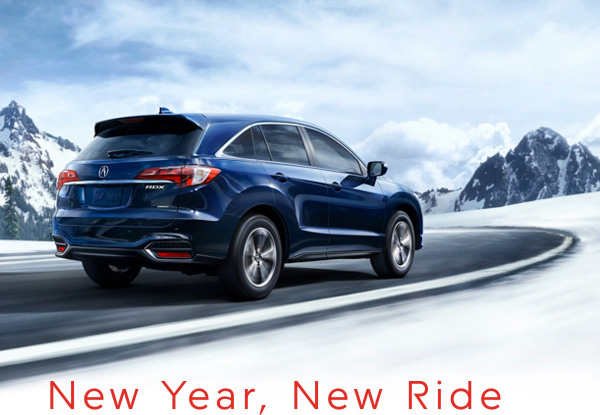
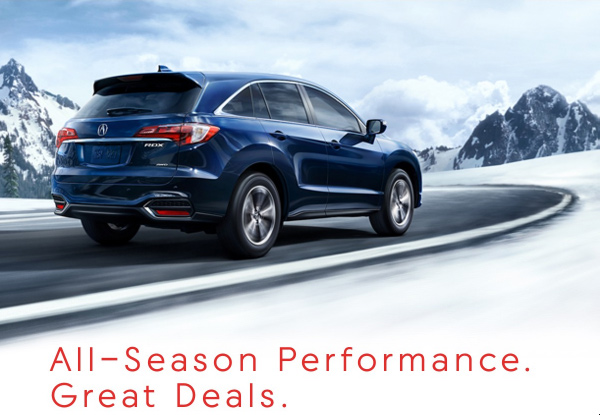
Various late commits. There are still copy changes for the latest email "RDX GOTL2 - rdx-hello-future"

diff --git a/review.web/Content/Review/rdx-presidents-day_20180208_assets.html b/review.web/Content/Review/rdx-presidents-day_20180208_assets.html
@@ -263,7 +263,7 @@
                               <tr>
                                 <td>
                                   <a style="margin:0; padding:0; border:none; outline:none; text-decoration:none;" target="_blank" href="https://www.acura.com/rdx/?SP_RID=%%RECIPIENT_ID%%&SP_MID=%%MAILING_ID%%&PROGRAMID=%%PROGID%%&CAMPAIGNCODE=%%CAMPAIGNCODE%%&OFFERCODE=%%OFFERCODE%%&CELLCODE=%%CELL%%&PID=%%PID%%&LINKNAME=%%LINK_NAME%%">
-                                    <img style="margin:0 auto;padding:0;border:none !important;outline:none !important;display:block;text-align:center; font-family:Helvetica, Arial, 'Lucida Grande', sans-serif; color:white; font-size:20px;" width="600" height="415" alt="The 2018 RDX - New Year, New Ride" src="rdx-presidents-day_20180208_assets/hero.jpg" />
+                                    <img style="margin:0 auto;padding:0;border:none !important;outline:none !important;display:block;text-align:center; font-family:Helvetica, Arial, 'Lucida Grande', sans-serif; color:white; font-size:20px;" width="600" height="415" alt="All-Season Perforance. Great Deals." src="rdx-presidents-day_20180208_assets/hero.jpg" />
                                   </a>
                                 </td>
                               </tr>
@@ -277,7 +277,7 @@
                                         <td class="content-container-cell" style="font-family:Helvetica, Arial, 'Lucida Grande', sans-serif; font-size: 16px; line-height: 32px; color: #000">
                                           <img class="spacer line-space-large" style="margin:0 auto;padding:0;border:none !important;outline:none !important;display:block;text-align:center;width:1px;" src="rdx-presidents-day_20180208_assets/spacer.png" height="15" width="1" />
 
-                                          <div class="content acura-body-copy" style="line-height:32px;font-family:'Helvetica Neue', Helvetica, Arial, 'Lucida Grande', sans-serif !important;font-size:16px;line-height:32px;text-align:left;color:#000000;" align="left">Remarkable handling and agility combined with spaciousness and comfort make the Acura RDX one amazing ride. And with equally amazing finance and lease offers currently available, now's your chance to drive one for less. But you&rsquo;d better hurry — the savings end on February 28th.</div>
+                                          <div class="content acura-body-copy" style="line-height:32px;font-family:'Helvetica Neue', Helvetica, Arial, 'Lucida Grande', sans-serif !important;font-size:16px;line-height:32px;text-align:left;color:#000000;" align="left">Remarkable handling and agility combined with spaciousness and comfort make the Acura RDX one amazing ride. And now you can get equally amazing finance and lease offers. But you&rsquo;d better hurry &mdash; the savings end on the popular RDX February 28th.</div>
                                           </td>
                                         <td style="width:50px;" width="50"><img class="spacer col-space-content-container" style="margin:0 auto;padding:0;border:none !important;outline:none !important;display:block;text-align:center;" src="rdx-presidents-day_20180208_assets/spacer.png" height="1" width="50" >
                                         </td>
@@ -748,7 +748,7 @@
                           <tbody>
                             <tr>
                               <td valign="top" align="center" style="color:#000000 !important; vertical-align:middle;padding:16px 50px;border-width:2px;border-style:solid;border-color:#e82c2a;background-color:#ffffff;font-family:Helvetica, Arial, 'Lucida Grande', sans-serif;font-size:16px;text-align:center;">
-                                <a class="acura-button-inner" href="https://www.acura.com/tools/current-luxury-car-suv-offers-leasing?vehiclemodelseries=rdx" target="_blank" style="color:#000000 !important; text-decoration:none;border:none;font-weight:bold !important;display:inline-block;font-size:20px;font-family:'HelveticaNeue-Bold', 'Helvetica Neue Bold', 'Helvetica Neue', Helvetica, Arial, 'Lucida Grande', sans-serif !important;font-size:16px;text-align:center;" align="center">&nbsp;&nbsp;VIEW ALL CURRENT RDX OFFERS&nbsp;&nbsp;</a>
+                                <a class="acura-button-inner" href="https://www.acura.com/tools/current-luxury-car-suv-offers-leasing" target="_blank" style="color:#000000 !important; text-decoration:none;border:none;font-weight:bold !important;display:inline-block;font-size:20px;font-family:'HelveticaNeue-Bold', 'Helvetica Neue Bold', 'Helvetica Neue', Helvetica, Arial, 'Lucida Grande', sans-serif !important;font-size:16px;text-align:center;" align="center">&nbsp;&nbsp;VIEW ALL CURRENT ACURA OFFERS&nbsp;&nbsp;</a>
                               </td>
                             </tr>
                           </tbody>
@@ -788,7 +788,7 @@
                                         <tbody>
                                           <tr>
                                             <td class="acura-button" style="vertical-align:middle;display:inline-block;line-height:1px;padding:0;border-width:2px;border-style:solid;border-color:#e82c2a;background-color:#ffffff;font-family:'Helvetica Neue', Helvetica, Arial, 'Lucida Grande', sans-serif;font-size:16px;text-align:center;color:#000000;" valign="middle" align="center">
-                                              <a class="acura-button-inner" href="https://www.acura.com/build-price/rdx/?SP_RID=%%RECIPIENT_ID%%&SP_MID=%%MAILING_ID%%&PROGRAMID=%%PROGID%%&CAMPAIGNCODE=%%CAMPAIGNCODE%%&OFFERCODE=%%OFFERCODE%%&CELLCODE=%%CELL%%&PID=%%PID%%&LINKNAME=%%LINK_NAME%%" target="_blank" style="text-decoration:none;line-height:16px;font-weight:bold;display:inline-block;font-family:'HelveticaNeue-Bold', 'Helvetica Neue Bold', 'Helvetica Neue', Helvetica, Arial, 'Lucida Grande', sans-serif;font-size:16px;text-align:center;color:#e82c2a;" align="center">
+                                              <a class="acura-button-inner" href="https://www.acura.com/tools/bap/baplanding.aspx?SP_RID=%%RECIPIENT_ID%%&SP_MID=%%MAILING_ID%%&PROGRAMID=%%PROGID%%&CAMPAIGNCODE=%%CAMPAIGNCODE%%&OFFERCODE=%%OFFERCODE%%&CELLCODE=%%CELL%%&PID=%%PID%%&LINKNAME=%%LINK_NAME%%" target="_blank" style="text-decoration:none;line-height:16px;font-weight:bold;display:inline-block;font-family:'HelveticaNeue-Bold', 'Helvetica Neue Bold', 'Helvetica Neue', Helvetica, Arial, 'Lucida Grande', sans-serif;font-size:16px;text-align:center;color:#e82c2a;" align="center">
                                                 <font color="#e82c2a"><img style="margin:0 auto;padding:0;border:0px none;outline:0px none;display:block;text-align:center;vertical-align:bottom;line-height:30px;width:30px;height:30px;" height="30" width="30" alt="" src="rdx-presidents-day_20180208_assets/link-arrow-2x.png"></font>
                                               </a>
                                             </td>
@@ -800,7 +800,7 @@
                                     </td>
                                     <td style="vertical-align:middle;height:34px;text-align:left;" valign="middle" align="left" height="34">
                                       <div class="acura-button-arrow-text" style="color:#e82c2a;text-align:left;font-size:15px;font-family:'Helvetica Neue', Helvetica, Arial, 'Lucida Grande', sans-serif;font-weight:bold;line-height:15px;text-decoration:none;">
-                                        <a class="acura-button-inner-red" href="https://www.acura.com/build-price/rdx?modelyear=2018&SP_RID=%%RECIPIENT_ID%%&SP_MID=%%MAILING_ID%%&PROGRAMID=%%PROGID%%&CAMPAIGNCODE=%%CAMPAIGNCODE%%&OFFERCODE=%%OFFERCODE%%&CELLCODE=%%CELL%%&PID=%%PID%%&LINKNAME=%%LINK_NAME%%" target="_blank" style="color:#e82c2a !important; text-decoration:none;border:none;font-weight:bold !important;display:inline-block;font-family:'HelveticaNeue-Bold', 'Helvetica Neue Bold', 'Helvetica Neue', Helvetica, Arial, 'Lucida Grande', sans-serif;font-size:16px;text-align:center;" align="center">BUILD &amp; PRICE YOUR RDX</a>
+                                        <a class="acura-button-inner-red" href="https://www.acura.com/tools/bap/baplanding.aspx?SP_RID=%%RECIPIENT_ID%%&SP_MID=%%MAILING_ID%%&PROGRAMID=%%PROGID%%&CAMPAIGNCODE=%%CAMPAIGNCODE%%&OFFERCODE=%%OFFERCODE%%&CELLCODE=%%CELL%%&PID=%%PID%%&LINKNAME=%%LINK_NAME%%" target="_blank" style="color:#e82c2a !important; text-decoration:none;border:none;font-weight:bold !important;display:inline-block;font-family:'HelveticaNeue-Bold', 'Helvetica Neue Bold', 'Helvetica Neue', Helvetica, Arial, 'Lucida Grande', sans-serif;font-size:16px;text-align:center;" align="center">BUILD &amp; PRICE YOUR ACURA</a>
                                       </div>
                                     </td>
                                   </tr>

diff --git a/review.web/Content/Review/rdx-hello-future_20180209_assets.html b/review.web/Content/Review/rdx-hello-future_20180209_assets.html
@@ -103,7 +103,7 @@
   </head>
 <body bgcolor="#f2f2f2" style="padding:0;margin:0;-webkit-text-size-adjust:none; background-color:#f2f2f2;">
 <div style="display:none;visibility:hidden !important;mso-hide:all;font-size:1px;color:#ffffff;line-height:1px;max-height:0px;max-width:0px;opacity:0;overflow:hidden !important;">Step into the driver’s seat of our world-class SUV </div>
-<table width="100%" cellpadding="0" cellspacing="0" border="0" align="center" style="min-width:600px !important;">
+<table width="100%" cellpadding="0" cellspacing="0" border="0" align="center" bgcolor="#f2f2f2" style="min-width:600px !important;">
   <tbody><tr><td align="center" valign="top">
     <table width="600" border="0" cellpadding="0" cellspacing="0" bgcolor="#FFFFFF">
       <!-- logo -->
@@ -128,7 +128,7 @@
                       </td>
                       <td class="content-container-cell" style="font-family:Helvetica, Arial, 'Lucida Grande', sans-serif;">
                         <img class="spacer line-space-large" style="margin:0 auto;padding:0;border:none !important;outline:none !important;display:block;text-align:center;width:1px;" src="rdx-hello-future_20180209_assets/spacer.png" height="30" width="1">
-                        <div class="content acura-body-copy" style="line-height:30px;font-family:'Helvetica Neue', Helvetica, Arial, 'Lucida Grande', sans-serif !important;font-size:16px;text-align:left;color:#000000;" align="left">When greatness is in your DNA, unleash it. That's what the Acura RDX Prototype is all about. As we&rsquo;ve previously shared, it showcases the exhilarating future of Acura vehicles. More than just a sportier ride, our world-class SUV elevates the driving experience with performance capabilities and innovative technologies that set a new standard for luxury crossovers.</div>
+                        <div class="content acura-body-copy" style="line-height:30px;font-family:'Helvetica Neue', Helvetica, Arial, 'Lucida Grande', sans-serif !important;font-size:16px;text-align:left;color:#000000;" align="left">When greatness is in your DNA, unleash it. That&rsquo;s what the Acura RDX Prototype is all about. As we&rsquo;ve previously shared, it showcases the exhilarating future of Acura vehicles. More than just a sportier ride, our world-class SUV elevates the driving experience with performance capabilities and innovative technologies that set a new standard for luxury crossovers.</div>
                       </td>
                       <td width="50"><img class="spacer col-space-content-container" style="margin:0 auto;padding:0;border:none !important;outline:none !important;display:block;text-align:center;" src="rdx-hello-future_20180209_assets/spacer.png" height="1" width="50" />
                       </td>
@@ -227,7 +227,7 @@
                       <td width="448" style="font-family:Helvetica, Arial, 'Lucida Grande', sans-serif;">
                         <img class="spacer line-space-large" style="margin:0 auto;padding:0;border:none !important;outline:none !important;display:block;text-align:center;width:1px;" src="rdx-hello-future_20180209_assets/spacer.png" height="25" width="1" />
 
-                        <div class="content acura-body-copy" style="line-height:30px;font-family:'Helvetica Neue', Helvetica, Arial, 'Lucida Grande', sans-serif !important;font-size:16px;text-align:left;color:white;" align="left">Beyond its evocative new styling, the RDX Prototype brings power and precision to your daily drive.</div>
+                        <div class="content acura-body-copy" style="line-height:30px;font-family:'Helvetica Neue', Helvetica, Arial, 'Lucida Grande', sans-serif !important;font-size:16px;text-align:left;color:white;" align="left">Beyond its evocative new styling, the RDX Prototype brings power and precision.</div>
 
                         <img class="spacer line-space-large" style="margin:0 auto;padding:0;border:none !important;outline:none !important;display:block;text-align:center;width:1px;" src="rdx-hello-future_20180209_assets/spacer.png" height="20" width="1" />
                       </td>
@@ -476,7 +476,7 @@
                     <td width="448" style="font-family:Helvetica, Arial, 'Lucida Grande', sans-serif;">
                       <img class="spacer line-space-large" style="margin:0 auto;padding:0;border:none !important;outline:none !important;display:block;text-align:center;width:1px;" src="rdx-hello-future_20180209_assets/spacer.png" height="25" width="1" />
 
-                      <div class="content acura-body-copy" style="line-height:30px;font-family:'Helvetica Neue', Helvetica, Arial, 'Lucida Grande', sans-serif !important;font-size:16px;text-align:left;color:#000000;" align="left">Love good tunes? The RDX Prototype features the 16-channel ELS Studio 3D system developed by Panasonic and tuned by a Grammy-winning music producer.</div>
+                      <div class="content acura-body-copy" style="line-height:30px;font-family:'Helvetica Neue', Helvetica, Arial, 'Lucida Grande', sans-serif !important;font-size:16px;text-align:left;color:#000000;" align="left">Love good tunes? You&rsquo;ll be able to explore the 16-channel ELS Studio 3D system developed by Panasonic and tuned by a Grammy-winning music producer.</div>
                     </td>
                   </tr>
                 </table>
@@ -565,7 +565,7 @@
                         <td width="448" style="font-family:Helvetica, Arial, 'Lucida Grande', sans-serif; overflow:hidden !important;">
                           <img class="spacer line-space-large" style="margin:0 auto;padding:0;border:none !important;outline:none !important;display:block;text-align:center;width:1px;" src="rdx-hello-future_20180209_assets/spacer.png" height="25" width="1" />
 
-                          <div class="content acura-body-copy" style="line-height:30px;font-family:'Helvetica Neue', Helvetica, Arial, 'Lucida Grande', sans-serif !important;font-size:16px;text-align:left;color:white;" align="left">The RDX Prototype will be built with heart in the heartland. Development of this next-level SUV was led by our Ohio-based R&D team, with styling by the Acura Design Studio in Los Angeles.</div>
+                          <div class="content acura-body-copy" style="line-height:30px;font-family:'Helvetica Neue', Helvetica, Arial, 'Lucida Grande', sans-serif !important;font-size:16px;text-align:left;color:white;" align="left">The new RDX will be built with heart in the heartland. Development of this next-level SUV was led by our Ohio-based R&amp;D team, with styling by the Acura Design Studio in Los Angeles.</div>
 
                           <img class="spacer line-space-large" style="margin:0 auto;padding:0;border:none !important;outline:none !important;display:block;text-align:center;width:1px;" src="rdx-hello-future_20180209_assets/spacer.png" height="25" width="1" />
 
@@ -626,7 +626,7 @@
 
                                               <img class="spacer line-space-large" style="margin:0 auto;padding:0;border:none !important;outline:none !important;display:block;text-align:center;width:1px;" src="rdx-hello-future_20180209_assets/spacer.png" height="25" width="1" />
 
-                                              <div class="content acura-body-copy" style="line-height:30px;font-family:'Helvetica Neue', Helvetica, Arial, 'Lucida Grande', sans-serif !important;font-size:16px;text-align:left;color:#000000;" align="center">That&rsquo;s it for now but more RDX info is coming your way soon. In the meantime, check out the latest below.</div>
+                                              <div class="content acura-body-copy" style="line-height:30px;font-family:'Helvetica Neue', Helvetica, Arial, 'Lucida Grande', sans-serif !important;font-size:16px;text-align:left;color:#000000;" align="center">That&rsquo;s it for now but more info is coming your way soon. In the meantime, check out the latest below.</div>
 
                                               <img class="spacer line-space-large" style="margin:0 auto;padding:0;border:none !important;outline:none !important;display:block;text-align:center;width:1px;" src="rdx-hello-future_20180209_assets/spacer.png" height="30" width="1" />
                                             </td>
